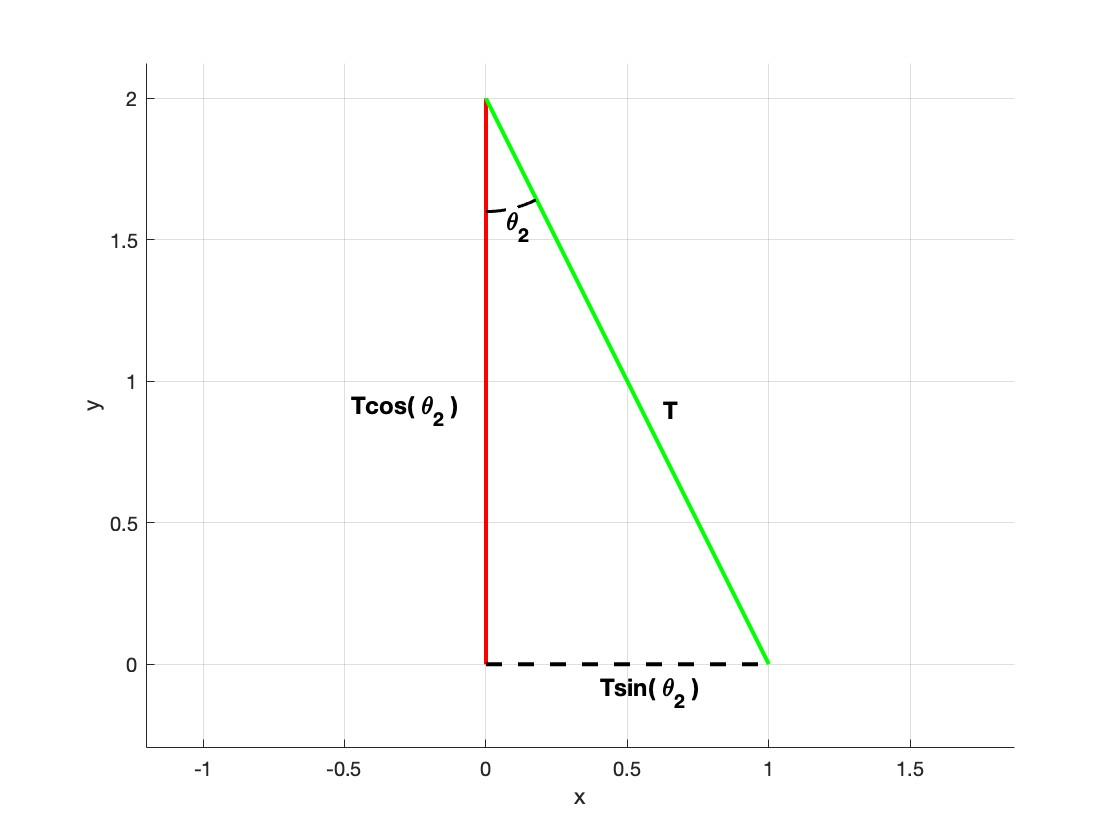
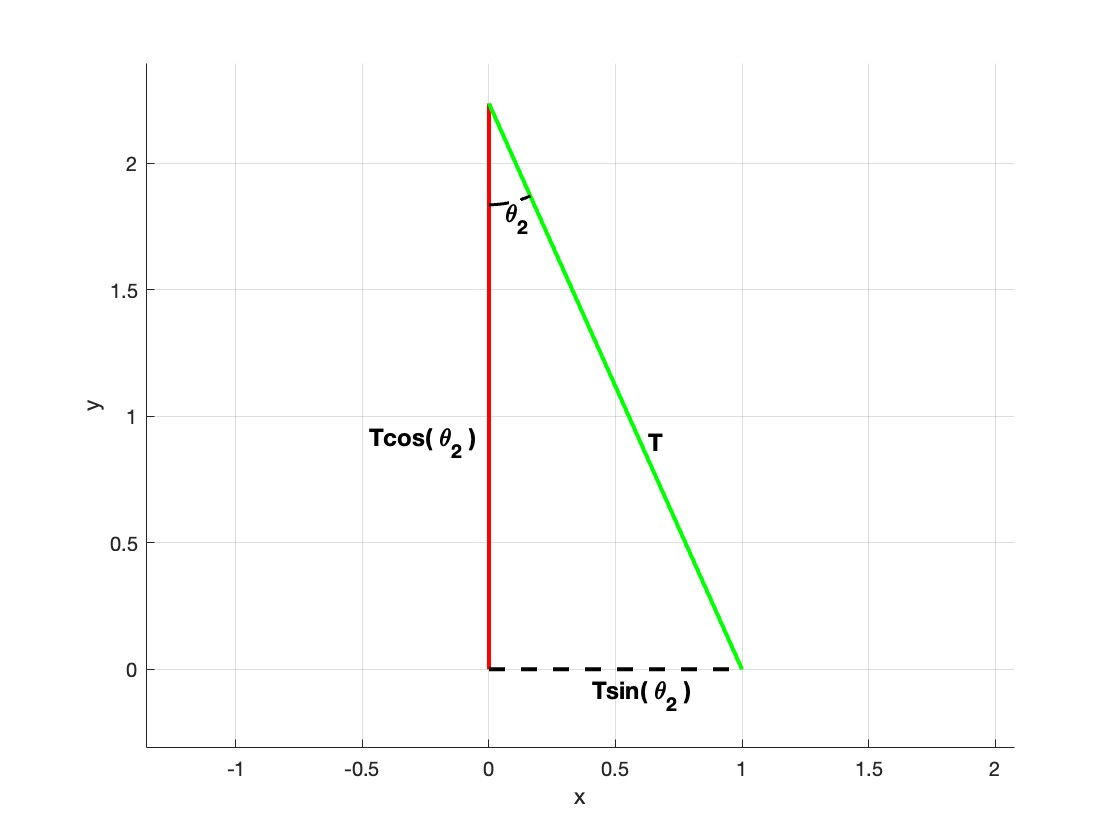
added thrust decomposition

diff --git a/documents/simulation.tex b/documents/simulation.tex
@@ -115,6 +115,28 @@
 	\[
 		\dot{\vec{\omega}} = I^{-1}\!\left(\vec{M_b} - \vec{\omega} \times (I\,\vec{\omega})\right)
 	\]
+	\begin{figure}[H]
+	\centering
+	\includegraphics[width=0.7\textwidth]{graph3d.jpg}
+	\caption{Three-dimensional thrust decomposition for a 2-axis gimballed drone.}
+	\label{fig:3dgraph}
+	\end{figure}
+        \begin{figure}[H]
+        	\centering
+        	\begin{subfigure}[b]{0.48\textwidth}
+        		\centering
+        		\includegraphics[width=\textwidth]{graph2.jpg}
+        		\caption{Thrust decomposition in the inner gimbal axis plane.}
+        	\end{subfigure}
+        	\begin{subfigure}[b]{0.48\textwidth}
+        		\centering
+        		\includegraphics[width=\textwidth]{graph3.jpg}
+        		\caption{Thrust decomposition in the x–z plane.}
+        	\end{subfigure}
+        	\caption{Two-dimensional thrust decompositions for a 2-axis gimballed drone.}
+        	\label{fig:3dDecomp}
+        \end{figure}
+
 	 \[
          \vec{F_b} = T
         \begin{bmatrix}
